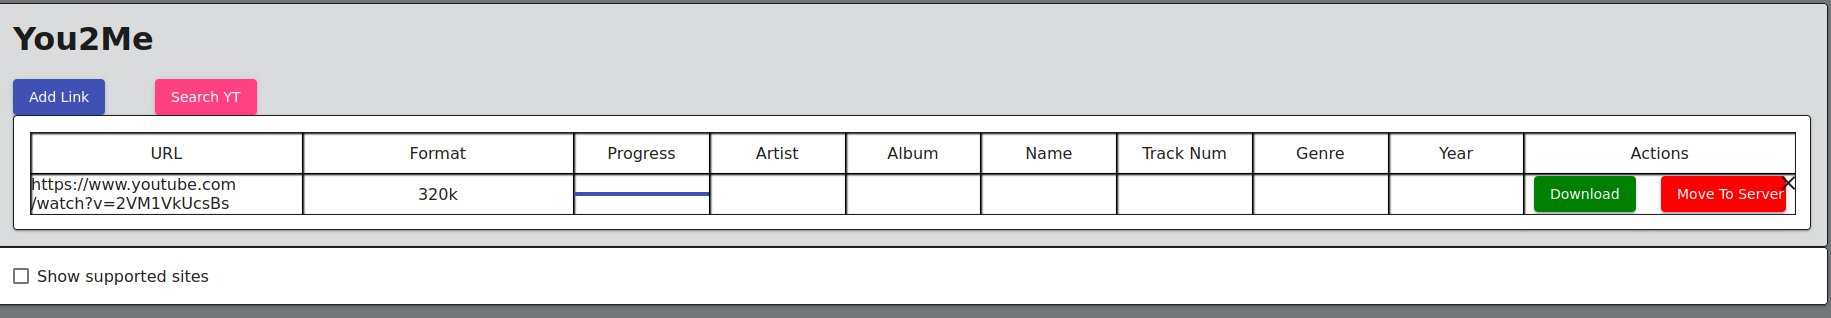
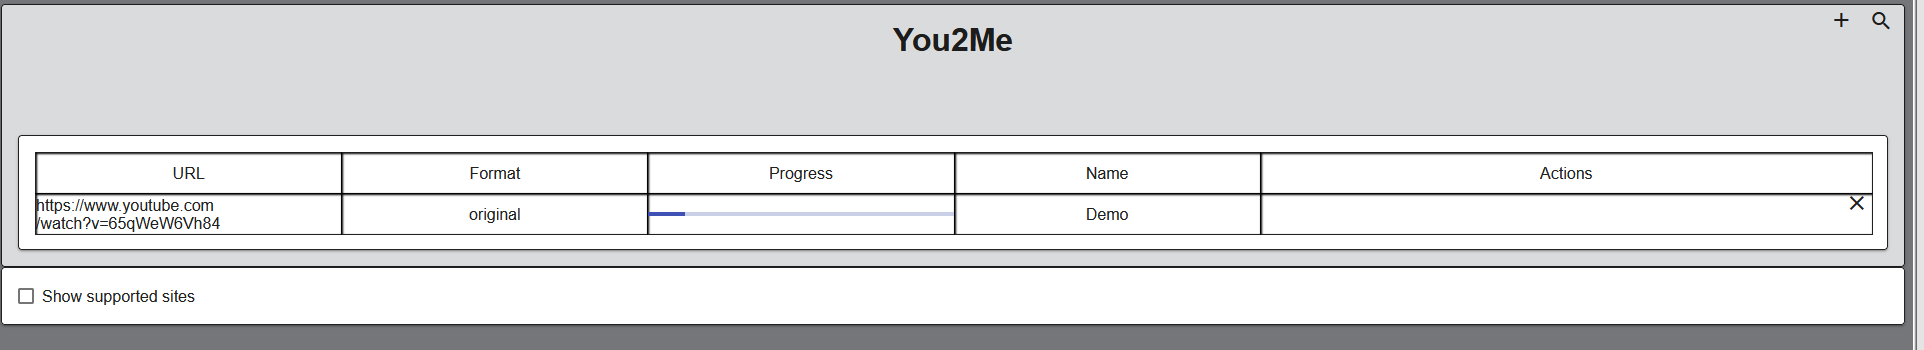
Updated screenshots due to new UI

Changed region(s): [[0.0, 0.0, 1.0, 1.0], [0.0, 0.0849, 0.0934, 0.1698], [0.467, 0.0849, 0.5292, 0.1698]]

diff --git a/README.md b/README.md
@@ -22,6 +22,14 @@ Please contact me if you run into any issues.
 
 ![Screenshot4](https://raw.githubusercontent.com/SegiH/You2Me/master/screenshots/Screenshot4.png)
 
+![Screenshot5](https://raw.githubusercontent.com/SegiH/You2Me/master/screenshots/Screenshot5.png)
+
+![Screenshot6](https://raw.githubusercontent.com/SegiH/You2Me/master/screenshots/Screenshot6.png)
+
+![Screenshot7](https://raw.githubusercontent.com/SegiH/You2Me/master/screenshots/Screenshot7.png)
+
+![Screenshot8](https://raw.githubusercontent.com/SegiH/You2Me/master/screenshots/Screenshot8.png)
+
 
 ### Formats
 This web app supports saving the file in multiple formats.
